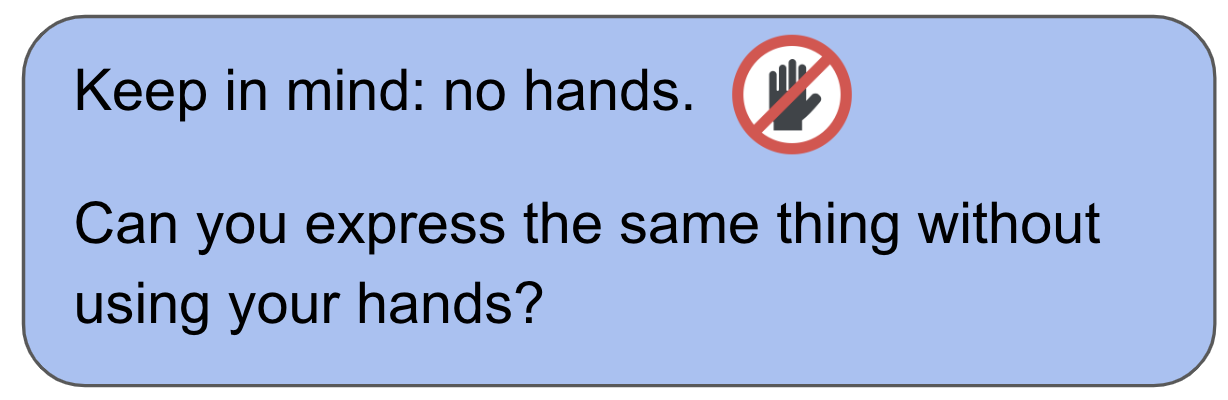
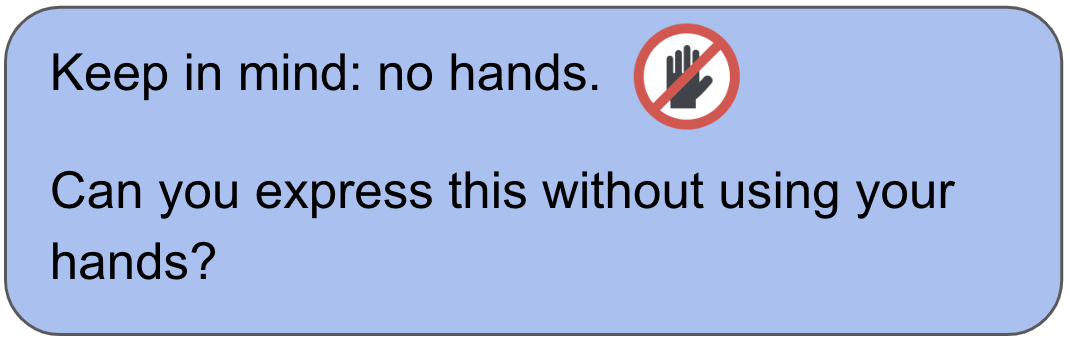
corrected typos, removed emojis

Changed region(s): [[0.0, 0.0, 1.0, 0.9827]]

diff --git a/js/emojis.js b/js/emojis.js
@@ -2,55 +2,55 @@ import { addExitButton, blobToBase64, shuffleArray, getSupportedMimeType } from 
 const emojiImages = [
     "https://raw.githubusercontent.com/bihamta/chehre.ai/main/emojis/anxious-face-with-sweat_1f630.png",
     "https://raw.githubusercontent.com/bihamta/chehre.ai/main/emojis/beaming-face-with-smiling-eyes_1f601.png",
-    "https://raw.githubusercontent.com/bihamta/chehre.ai/main/emojis/disappointed-face_1f61e.png",
-    // "https://raw.githubusercontent.com/bihamta/chehre.ai/main/emojis/exploding-head_1f92f.png",
-    // "https://raw.githubusercontent.com/bihamta/chehre.ai/main/emojis/expressionless-face_1f611.png",
-    // "https://raw.githubusercontent.com/bihamta/chehre.ai/main/emojis/face-blowing-a-kiss_1f618.png",
-    // "https://raw.githubusercontent.com/bihamta/chehre.ai/main/emojis/face-exhaling_1f62e.png",
-    // "https://raw.githubusercontent.com/bihamta/chehre.ai/main/emojis/face-holding-back-tears_1f979.png",
+    // "https://raw.githubusercontent.com/bihamta/chehre.ai/main/emojis/disappointed-face_1f61e.png",
+    "https://raw.githubusercontent.com/bihamta/chehre.ai/main/emojis/exploding-head_1f92f.png",
+    "https://raw.githubusercontent.com/bihamta/chehre.ai/main/emojis/expressionless-face_1f611.png",
+    "https://raw.githubusercontent.com/bihamta/chehre.ai/main/emojis/face-blowing-a-kiss_1f618.png",
+    "https://raw.githubusercontent.com/bihamta/chehre.ai/main/emojis/face-exhaling_1f62e.png",
+    "https://raw.githubusercontent.com/bihamta/chehre.ai/main/emojis/face-holding-back-tears_1f979.png",
     // "https://raw.githubusercontent.com/bihamta/chehre.ai/main/emojis/face-savoring-food_1f60b.png",
-    // "https://raw.githubusercontent.com/bihamta/chehre.ai/main/emojis/face-screaming-in-fear_1f631.png",
-    // "https://raw.githubusercontent.com/bihamta/chehre.ai/main/emojis/face-with-diagonal-mouth_1fae4.png",
-    // "https://raw.githubusercontent.com/bihamta/chehre.ai/main/emojis/face-with-hand-over-mouth_1f92d.png",
-    // "https://raw.githubusercontent.com/bihamta/chehre.ai/main/emojis/face-with-monocle_1f9d0.png",
-    // "https://raw.githubusercontent.com/bihamta/chehre.ai/main/emojis/face-with-open-eyes-and-hand-over-mouth_1fae2.png",
+    "https://raw.githubusercontent.com/bihamta/chehre.ai/main/emojis/face-screaming-in-fear_1f631.png",
+    "https://raw.githubusercontent.com/bihamta/chehre.ai/main/emojis/face-with-diagonal-mouth_1fae4.png",
+    "https://raw.githubusercontent.com/bihamta/chehre.ai/main/emojis/face-with-hand-over-mouth_1f92d.png",
+    "https://raw.githubusercontent.com/bihamta/chehre.ai/main/emojis/face-with-monocle_1f9d0.png",
+    "https://raw.githubusercontent.com/bihamta/chehre.ai/main/emojis/face-with-open-eyes-and-hand-over-mouth_1fae2.png",
     // "https://raw.githubusercontent.com/bihamta/chehre.ai/main/emojis/face-with-peeking-eye_1fae3.png",
-    // "https://raw.githubusercontent.com/bihamta/chehre.ai/main/emojis/face-with-raised-eyebrow_1f928.png",
-    // "https://raw.githubusercontent.com/bihamta/chehre.ai/main/emojis/face-with-rolling-eyes_1f644.png",
-    // "https://raw.githubusercontent.com/bihamta/chehre.ai/main/emojis/face-with-steam-from-nose_1f624.png",
-    // "https://raw.githubusercontent.com/bihamta/chehre.ai/main/emojis/face-with-symbols-on-mouth_1f92c.png",
+    "https://raw.githubusercontent.com/bihamta/chehre.ai/main/emojis/face-with-raised-eyebrow_1f928.png",
+    "https://raw.githubusercontent.com/bihamta/chehre.ai/main/emojis/face-with-rolling-eyes_1f644.png",
+    "https://raw.githubusercontent.com/bihamta/chehre.ai/main/emojis/face-with-steam-from-nose_1f624.png",
+    "https://raw.githubusercontent.com/bihamta/chehre.ai/main/emojis/face-with-symbols-on-mouth_1f92c.png",
     // "https://raw.githubusercontent.com/bihamta/chehre.ai/main/emojis/face-with-tears-of-joy_1f602.png",
-    // "https://raw.githubusercontent.com/bihamta/chehre.ai/main/emojis/flushed-face_1f633.png",
-    // "https://raw.githubusercontent.com/bihamta/chehre.ai/main/emojis/grimacing-face_1f62c.png",
-    // "https://raw.githubusercontent.com/bihamta/chehre.ai/main/emojis/grinning-face-with-big-eyes_1f603.png",
-    // "https://raw.githubusercontent.com/bihamta/chehre.ai/main/emojis/grinning-face-with-sweat_1f605.png",
-    // "https://raw.githubusercontent.com/bihamta/chehre.ai/main/emojis/hushed-face_1f62f.png",
-    // "https://raw.githubusercontent.com/bihamta/chehre.ai/main/emojis/loudly-crying-face_1f62d.png",
-    // "https://raw.githubusercontent.com/bihamta/chehre.ai/main/emojis/melting-face_1fae0.png",
-    // "https://raw.githubusercontent.com/bihamta/chehre.ai/main/emojis/nauseated-face_1f922.png",
-    // "https://raw.githubusercontent.com/bihamta/chehre.ai/main/emojis/partying-face_1f973.png",
-    // "https://raw.githubusercontent.com/bihamta/chehre.ai/main/emojis/pensive-face_1f614.png",
-    // "https://raw.githubusercontent.com/bihamta/chehre.ai/main/emojis/pleading-face_1f97a.png",
-    // "https://raw.githubusercontent.com/bihamta/chehre.ai/main/emojis/relieved-face_1f60c.png",
-    // "https://raw.githubusercontent.com/bihamta/chehre.ai/main/emojis/sleeping-face_1f634.png",
-    // "https://raw.githubusercontent.com/bihamta/chehre.ai/main/emojis/smiling-face-with-halo_1f607.png",
-    // "https://raw.githubusercontent.com/bihamta/chehre.ai/main/emojis/smiling-face-with-heart-eyes_1f60d.png",
-    // "https://raw.githubusercontent.com/bihamta/chehre.ai/main/emojis/smiling-face-with-horns_1f608.png",
-    // "https://raw.githubusercontent.com/bihamta/chehre.ai/main/emojis/smiling-face-with-smiling-eyes_1f60a.png",
-    // "https://raw.githubusercontent.com/bihamta/chehre.ai/main/emojis/smiling-face-with-sunglasses_1f60e.png",
+    "https://raw.githubusercontent.com/bihamta/chehre.ai/main/emojis/flushed-face_1f633.png",
+    "https://raw.githubusercontent.com/bihamta/chehre.ai/main/emojis/grimacing-face_1f62c.png",
+    "https://raw.githubusercontent.com/bihamta/chehre.ai/main/emojis/grinning-face-with-big-eyes_1f603.png",
+    "https://raw.githubusercontent.com/bihamta/chehre.ai/main/emojis/grinning-face-with-sweat_1f605.png",
+    "https://raw.githubusercontent.com/bihamta/chehre.ai/main/emojis/hushed-face_1f62f.png",
+    "https://raw.githubusercontent.com/bihamta/chehre.ai/main/emojis/loudly-crying-face_1f62d.png",
+    "https://raw.githubusercontent.com/bihamta/chehre.ai/main/emojis/melting-face_1fae0.png",
+    "https://raw.githubusercontent.com/bihamta/chehre.ai/main/emojis/nauseated-face_1f922.png",
+    "https://raw.githubusercontent.com/bihamta/chehre.ai/main/emojis/partying-face_1f973.png",
+    "https://raw.githubusercontent.com/bihamta/chehre.ai/main/emojis/pensive-face_1f614.png",
+    "https://raw.githubusercontent.com/bihamta/chehre.ai/main/emojis/pleading-face_1f97a.png",
+    "https://raw.githubusercontent.com/bihamta/chehre.ai/main/emojis/relieved-face_1f60c.png",
+    "https://raw.githubusercontent.com/bihamta/chehre.ai/main/emojis/sleeping-face_1f634.png",
+    "https://raw.githubusercontent.com/bihamta/chehre.ai/main/emojis/smiling-face-with-halo_1f607.png",
+    "https://raw.githubusercontent.com/bihamta/chehre.ai/main/emojis/smiling-face-with-heart-eyes_1f60d.png",
+    "https://raw.githubusercontent.com/bihamta/chehre.ai/main/emojis/smiling-face-with-horns_1f608.png",
+    "https://raw.githubusercontent.com/bihamta/chehre.ai/main/emojis/smiling-face-with-smiling-eyes_1f60a.png",
+    "https://raw.githubusercontent.com/bihamta/chehre.ai/main/emojis/smiling-face-with-sunglasses_1f60e.png",
     // "https://raw.githubusercontent.com/bihamta/chehre.ai/main/emojis/smiling-face-with-tear_1f972.png",
-    // "https://raw.githubusercontent.com/bihamta/chehre.ai/main/emojis/smirking-face_1f60f.png",
+    "https://raw.githubusercontent.com/bihamta/chehre.ai/main/emojis/smirking-face_1f60f.png",
     "https://raw.githubusercontent.com/bihamta/chehre.ai/main/emojis/star-struck_1f929.png",
     "https://raw.githubusercontent.com/bihamta/chehre.ai/main/emojis/thinking-face_1f914.png",
-    // "https://raw.githubusercontent.com/bihamta/chehre.ai/main/emojis/tired-face_1f62b.png",
-    // "https://raw.githubusercontent.com/bihamta/chehre.ai/main/emojis/unamused-face_1f612.png",
+    "https://raw.githubusercontent.com/bihamta/chehre.ai/main/emojis/tired-face_1f62b.png",
+    "https://raw.githubusercontent.com/bihamta/chehre.ai/main/emojis/unamused-face_1f612.png",
     // "https://raw.githubusercontent.com/bihamta/chehre.ai/main/emojis/winking-face_1f609.png",
-    // "https://raw.githubusercontent.com/bihamta/chehre.ai/main/emojis/woozy-face_1f974.png"
+    "https://raw.githubusercontent.com/bihamta/chehre.ai/main/emojis/woozy-face_1f974.png"
 ];
 const specialEmojis = [
     "https://raw.githubusercontent.com/bihamta/chehre.ai/main/emojis/face-with-hand-over-mouth_1f92d.png",
     "https://raw.githubusercontent.com/bihamta/chehre.ai/main/emojis/face-with-open-eyes-and-hand-over-mouth_1fae2.png",
-    "https://raw.githubusercontent.com/bihamta/chehre.ai/main/emojis/face-with-peeking-eye_1fae3.png",
+    // "https://raw.githubusercontent.com/bihamta/chehre.ai/main/emojis/face-with-peeking-eye_1fae3.png",
     "https://raw.githubusercontent.com/bihamta/chehre.ai/main/emojis/thinking-face_1f914.png"
 ];
 // Shuffle the emoji array once
@@ -64,7 +64,7 @@ let recorder = null;
 let nameEmoji = '';
 let userSubmittedLabel = "";
 let recordingStartTime = 0;
-const number_of_emojis = 5;
+const number_of_emojis = 41;
 let emoji_counter = 0;
 
 let cameraStream = null;
@@ -118,7 +118,7 @@ const emoji_trial_init = {
                 }
             </style>
             <p>Please record yourself performing the expression depicted by the emoji below. Make sure your entire face is visible in the camera while performing.</p>
-            <p>Please record yourself mimicking the facial movement shown below. Ensure your entire face is visible in the camera and you start the video with a <span style="color: rgb(215, 60, 99); font-style: italic; font-weight: normal;">neutral face (hold it for about 1 second)</span></p>
+            <p>Please <span style="font-weight: bold;">start</span> the video with a <span style="color: rgb(215, 60, 99); font-style: italic; font-weight: normal;">neutral face (hold it for about 1 second)</span></p>
 
             <div style="position: relative; text-align: center;">
                 <img src="${randomEmoji}" alt="Emoji"

diff --git a/js/experiment.js b/js/experiment.js
@@ -28,8 +28,8 @@ const timeline = [];
 // Add trials to the timeline
 timeline.push(welcome);
 timeline.push(consent);
-timeline.push(questionnaire);
-timeline.push(medi)
+// timeline.push(questionnaire);
+// timeline.push(medi)
 timeline.push(instruction_trial_1);
 timeline.push(instruction_trial_2);
 timeline.push(init_camera)
